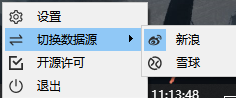
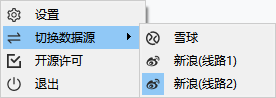
UPDATE:README.MD

diff --git a/README.md b/README.md
@@ -37,7 +37,7 @@ Through stocks and futures codes, monitor real-time price changes and place them
 
 ### What problems may be encountered?
 - Show the word "错误":
-  - Solution: Add `stock.xueqiu.com`,`hq.sinajs.cn` to the proxy whitelist to prevent it from traversing proxy traffic
+  - Solution: Add `stock.xueqiu.com`,`hq.sinajs.cn`,`w.sinajs.cn` to the proxy whitelist to prevent it from traversing proxy traffic
 - Windows 11 does not display:
   - The new solution has been replaced, but the new solution shows a slight flaw compared to the old solution. However, there is no better solution at the moment. The reason is that after the 22H2 version of Windows 11, Microsoft updated the taskbar implementation method, which caused the original implementation method to be incompatible.
 

diff --git a/README_zh.md b/README_zh.md
@@ -36,7 +36,7 @@
 ### 可能遇到的问题？
 
 - 显示“错误”字样：
-    - 解决办法：将`stock.xueqiu.com`,`hq.sinajs.cn`加入到代理白名单，使其不要走代理流量
+    - 解决办法：将`stock.xueqiu.com`,`hq.sinajs.cn`,`w.sinajs.cn` 加入到代理白名单，使其不要走代理流量
 - Windows 11 不显示：
     - 已经换用了新方案，但是新方案相较于旧方案，显示略有瑕疵。不过目前暂无更好解决办法。原因是 Windows11 22H2 版本后，微软对任务栏实现方式进行了更新，导致原本实现方式不兼容。
 
